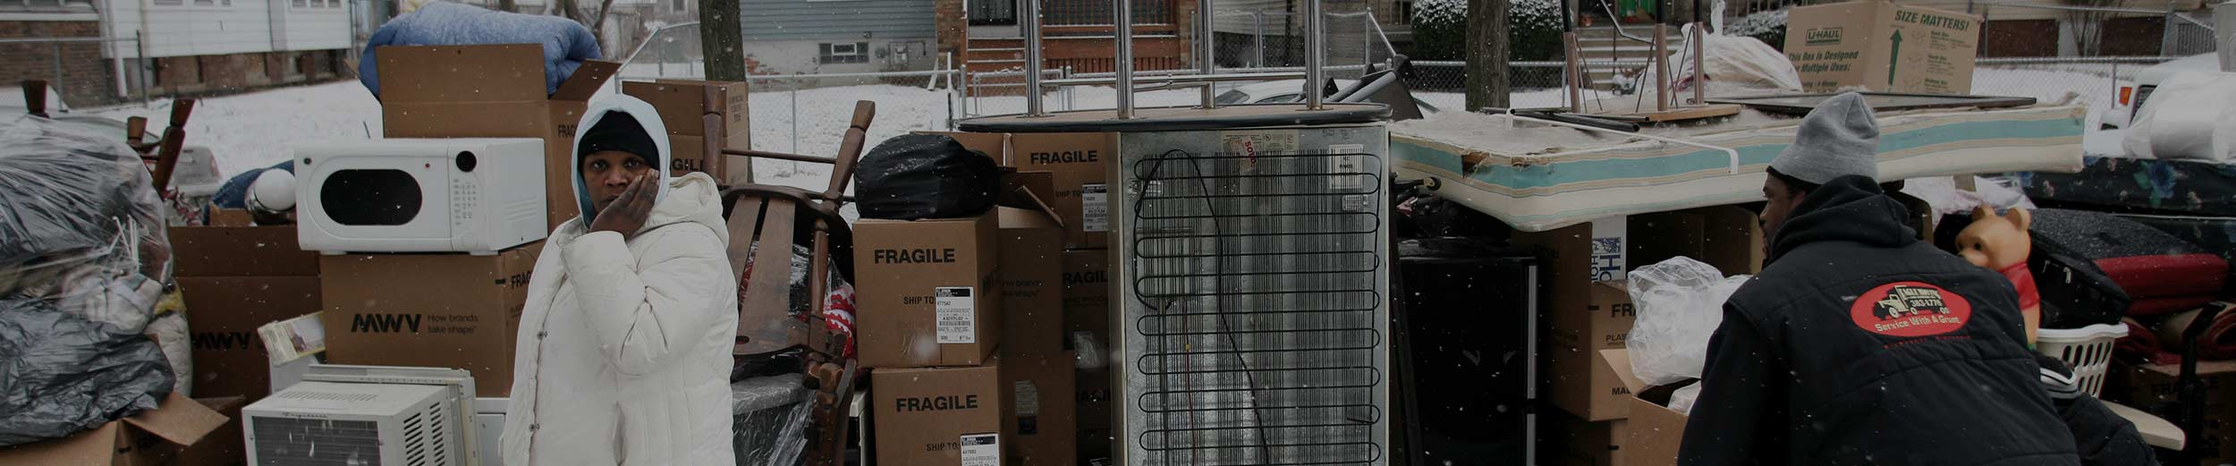
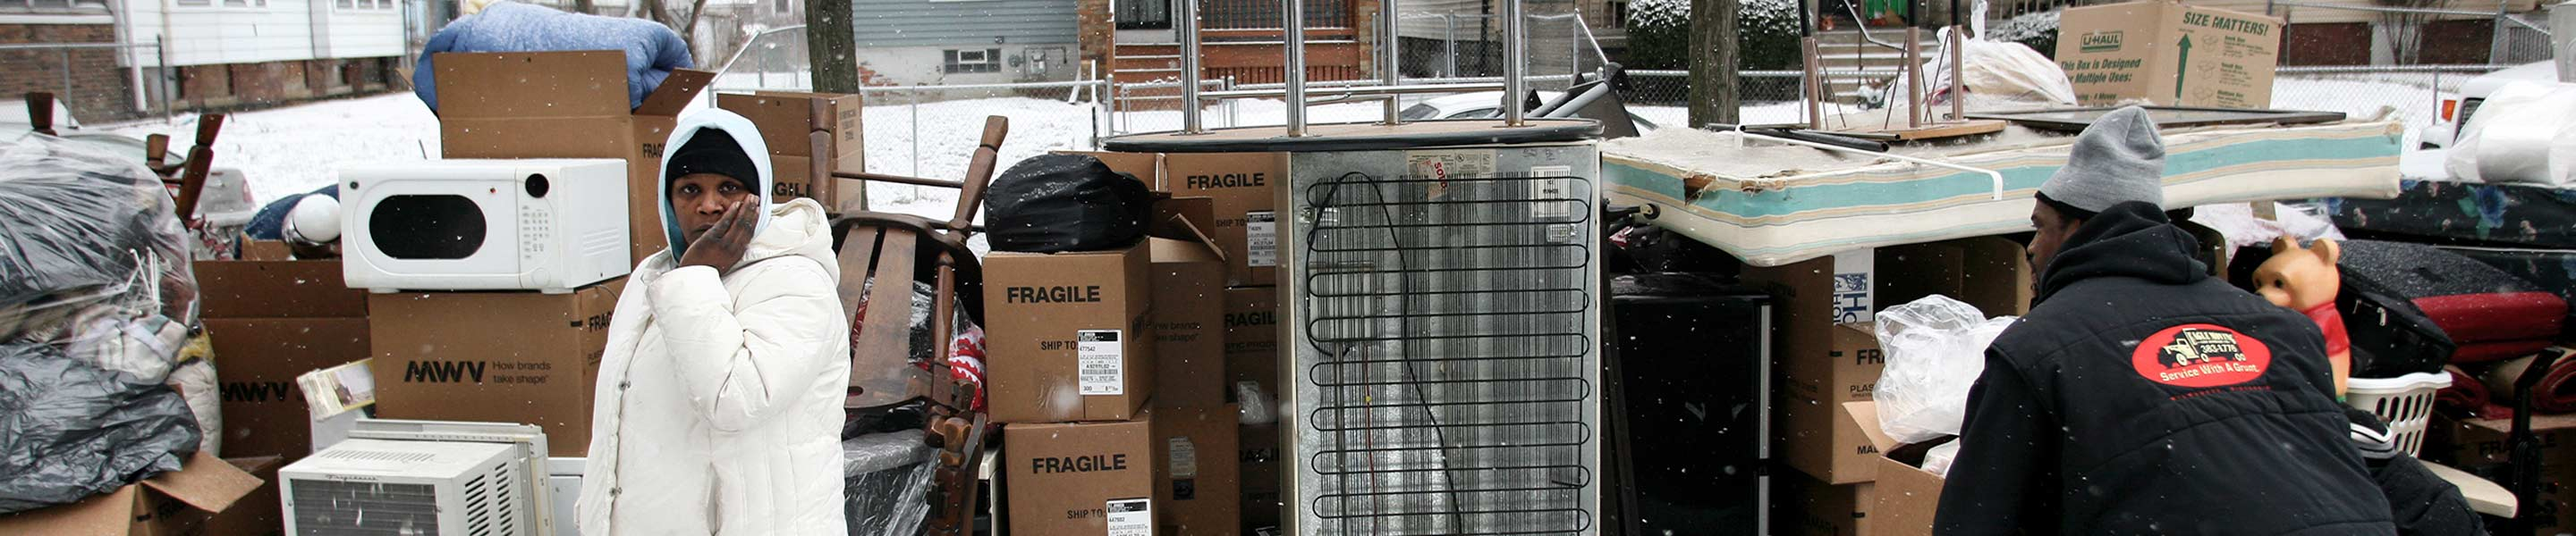
About Us fixes
- Reduce margin between tabs and bios
- Add team members
- Add css gradient to hero instead of hardcoded fill

diff --git a/src/sass/_index.scss b/src/sass/_index.scss
@@ -86,7 +86,12 @@
 }
 
 .about-us-hero {
-  background: url('/images/assets/hero/belongings-in-snow-hero.jpg') #000;
+  
+  background: linear-gradient(
+    rgba(0, 0, 0, 0.15), 
+    rgba(0, 0, 0, 0.15)
+  ), url('/images/assets/hero/belongings-in-snow-hero.jpg') #000;
+  
   background-repeat: no-repeat;
   background-size: cover;
   background-position-x: center;

diff --git a/src/sass/_about-us.scss b/src/sass/_about-us.scss
@@ -183,6 +183,9 @@
         @include for-tablet-portrait-up {
             padding-bottom: 5rem;
         }
+        @include for-tablet-landscape-up {
+                padding-bottom: 2.4rem;
+        }
         
     }    
     .anchor-links li, .anchor-links li a {
